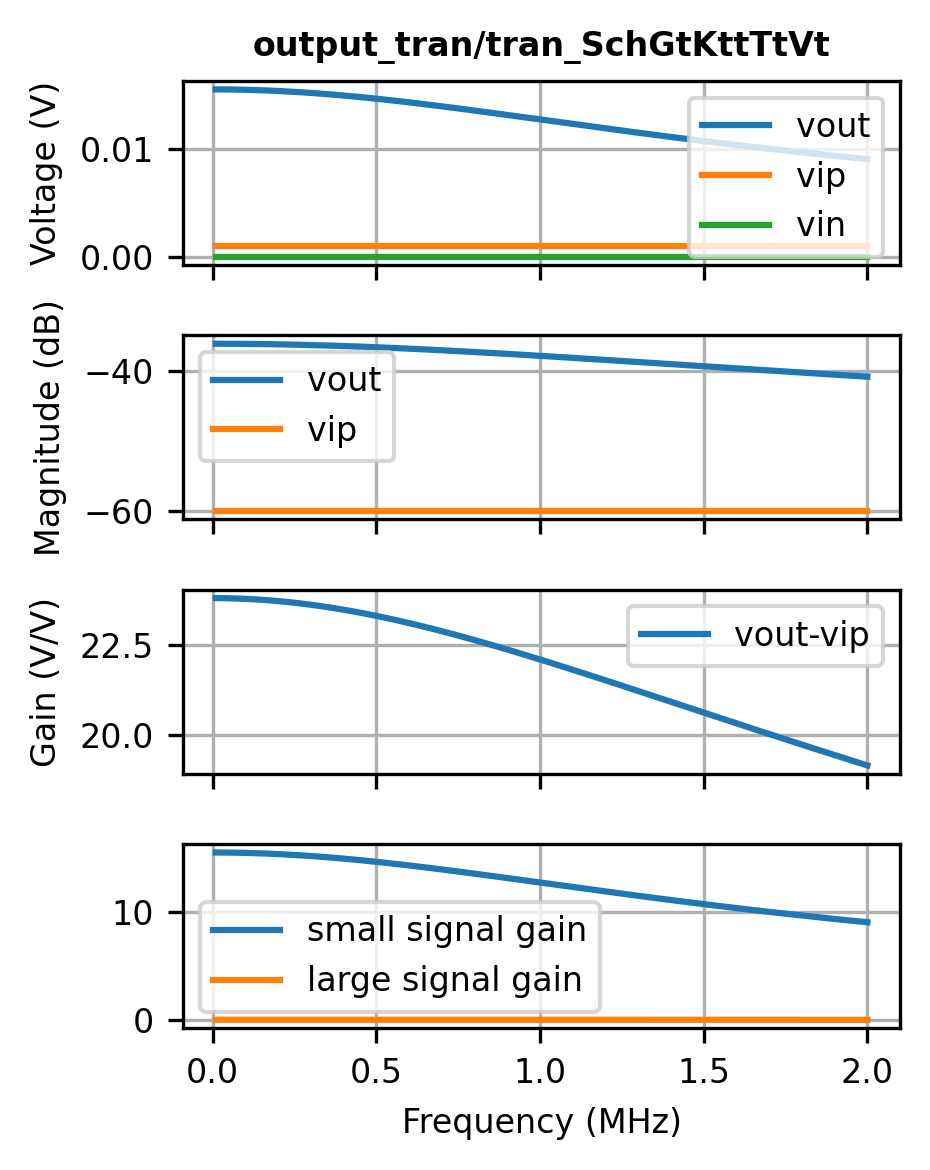
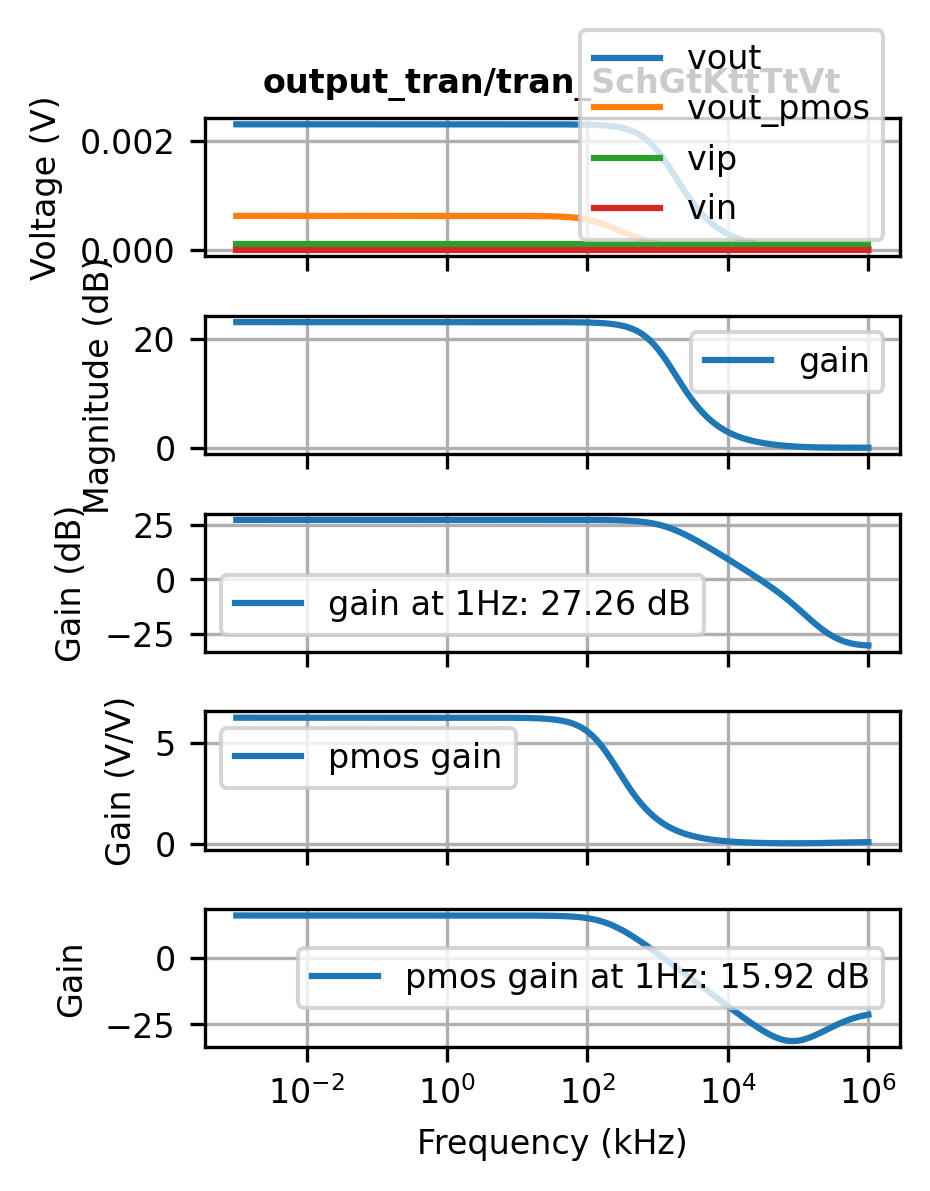
modified gain testbench

Changed region(s): [[0.0312, 0.0, 0.9978, 0.9846], [0.0624, 0.8, 0.0935, 0.8615], [0.9667, 0.4, 0.9978, 0.4308]]

diff --git a/sim/TB_cmp_gain/tran.py b/sim/TB_cmp_gain/tran.py
@@ -2,6 +2,7 @@
 import pandas as pd
 import yaml
 import matplotlib.pyplot as plt
+import numpy as np
 
 fig_width = 3.2
 fig_height = 4
@@ -33,15 +34,21 @@ def main(name):
     yaml.dump(obj,fo)
 
   #
-  # Parse transient simulation data saved in .out file
+  # Parse transient simulation data saved in .out file, calculate and plot gain
   #
 
   outfile = name + ".out"
   df = pd.read_csv(outfile, sep="\s+")
 
-  df["time"] = df["time"] * 1e9 # in ns
-  df["acgain"] = df["v(vout)"] / 1e-3 # AC Gain ≈ V(out) (mV) / 1 mV
-  df["dcgain"] = df["v(vout)"].diff() / df["time"].diff() # Gain ≈ ΔVout / ΔVin
+  df["time"] = df["time"] * 1e6 # in us
+  
+  AVout = max(df["v(vout)"]) - min(df["v(vout)"])
+  AVout_pmos = max(df["v(vout_pmos)"]) - min(df["v(vout_pmos)"])
+  AVip = max(df["v(vip)"]) - min(df["v(vip)"])
+  
+  print(f"AVout: {AVout} V, AVout_pmos: {AVout_pmos} V, AVip: {AVip} V")
+  print(f"tran Gain: {AVout/AVip} V/V, tran Gain_pmos: {AVout_pmos/AVip} V/V")
+  print(f"tran Gain: {20 * np.log10(AVout/AVip)} dB, tran Gain_pmos: {20 * np.log10(AVout_pmos/AVip)} dB")
 
   #
   # Plot transient simulation data saved in .out file
@@ -52,11 +59,9 @@ def main(name):
   axs[0].plot(df["time"], df["v(vin)"], label=f"vin")
   axs[0].plot(df["time"], df["v(vip)"], label=f"vip")
   
-  axs[1].plot(df["time"], df["v(vout)"], label=f"vout, nmos input")
-  axs[1].plot(df["time"], df["v(vout_pmos)"], label=f"vout, pmos input")
-
-  axs[2].plot(df["time"], df["acgain"], label=f"small signal gain, max: {round(max(df['acgain']), 1)}")
-  axs[2].plot(df["time"], df["dcgain"], label=f"large signal gain")
+  axs[1].plot(df["time"], df["v(vout)"], label=f"vout, nmos input\ngain: {AVout/AVip:.2f} V/V ({20 * np.log10(AVout/AVip):.2f} dB)")
+  
+  axs[2].plot(df["time"], df["v(vout_pmos)"], label=f"vout, pmos input\ngain: {AVout_pmos/AVip:.2f} V/V ({20 * np.log10(AVout_pmos/AVip):.2f} dB)")
 
   for ax in axs:
       ax.tick_params(axis="both", labelsize=ticks_fontsize)
@@ -64,13 +69,13 @@ def main(name):
       ax.grid()
   
   axs[0].set_title(f"{name}", fontsize=title_fontsize, fontweight="bold")
-  axs[-1].set_xlabel("Time (ns)", fontsize=label_fontsize)
+  axs[-1].set_xlabel("Time (us)", fontsize=label_fontsize)
 
   axs[0].set_ylabel("Voltage (V)", fontsize=label_fontsize)
   axs[1].set_ylabel("Voltage (V)", fontsize=label_fontsize)
-  axs[2].set_ylabel("Gain (V/V)", fontsize=label_fontsize)
+  axs[2].set_ylabel("Voltage (V)", fontsize=label_fontsize)
 
-  axs[1].set_ylim(bottom=0 - (max(df["v(vout)"]) * 0.05))
+  # axs[1].set_ylim(bottom=0 - (max(df["v(vout)"]) * 0.05))
 
   fig.tight_layout()
   fig.savefig(f"figures/{name.split('/')[-1]}.png", bbox_inches="tight", dpi=300)
@@ -82,40 +87,46 @@ def main(name):
   ac_outfile = name + "_ac.out"
   ac_df = pd.read_csv(ac_outfile, sep="\s+")
 
-  ac_df["frequency"] = ac_df["frequency"] * 1e-6 # in MHz
-  ac_df["acgain"] = ac_df["vm(vout)"] / ac_df["vm(vip)"] # AC Gain ≈ V(out) / 1 mV
-  ac_df["dcgain"] = ac_df["vm(vout)"].diff() / ac_df["frequency"].diff() # Gain ≈ ΔVout / ΔVin
+  ac_df["frequency"] = ac_df["frequency"] * 1e-3 # in kHz
+  ac_df["gain"] = ac_df["vm(vout)"] / ac_df["vm(vip)"] # AC Gain ≈ V(out) / V(in)
+  ac_df["gain_db"] = 20 * np.log10(ac_df["gain"])
+  ac_df["gain_db_alt"] = ac_df["vdb(vout)"] - ac_df["vdb(vip)"]
+  ac_df["gain_pmos"] = ac_df["vm(vout_pmos)"] / ac_df["vm(vip)"] # AC Gain ≈ V(out) / V(in)
+  ac_df["gain_pmos_db"] = 20 * np.log10(ac_df["gain_pmos"])
+  ac_df["gain_pmos_db_alt"] = ac_df["vdb(vout_pmos)"] - ac_df["vdb(vip)"]
 
   #
   # Plot AC simulation data saved in .out file
   #
 
-  ac_fig, ac_axs = plt.subplots(4, 1, figsize=(fig_width, fig_height), sharex=True, dpi=300)
+  ac_fig, ac_axs = plt.subplots(5, 1, figsize=(fig_width, fig_height), sharex=True, dpi=300)
 
   ac_axs[0].plot(ac_df["frequency"], ac_df["vm(vout)"], label=f"vout")
+  ac_axs[0].plot(ac_df["frequency"], ac_df["vm(vout_pmos)"], label=f"vout_pmos")
   ac_axs[0].plot(ac_df["frequency"], ac_df["vm(vip)"], label=f"vip")
   ac_axs[0].plot(ac_df["frequency"], ac_df["vm(vin)"], label=f"vin")
+  
+  ac_axs[1].plot(ac_df["frequency"], ac_df["gain"], label=f"gain")
+  ac_axs[2].plot(ac_df["frequency"], ac_df["gain_db"], label=f"gain at 1Hz: {ac_df['gain_db'].iloc[0]:.2f} dB")
 
-  ac_axs[1].plot(ac_df["frequency"], ac_df["vdb(vout)"], label=f"vout")
-  ac_axs[1].plot(ac_df["frequency"], ac_df["vdb(vip)"], label=f"vip")
-
-  ac_axs[2].plot(ac_df["frequency"], ac_df["vdb(vout)"]-ac_df["vdb(vip)"], label=f"vout-vip")
-
-  ac_axs[3].plot(ac_df["frequency"], ac_df["acgain"], label=f"small signal gain")
-  ac_axs[3].plot(ac_df["frequency"], ac_df["dcgain"], label=f"large signal gain")
+  ac_axs[3].plot(ac_df["frequency"], ac_df["gain_pmos"], label=f"pmos gain")
+  ac_axs[4].plot(ac_df["frequency"], ac_df["gain_pmos_db"], label=f"pmos gain at 1Hz: {ac_df['gain_pmos_db'].iloc[0]:.2f} dB")
 
   for ax in ac_axs:
       ax.tick_params(axis="both", labelsize=ticks_fontsize)
       ax.legend(loc="best", fontsize=legend_fontsize)
       ax.grid()
+      ax.set_xscale('log')
   
   ac_axs[0].set_title(f"{name}", fontsize=title_fontsize, fontweight="bold")
-  ac_axs[-1].set_xlabel("Frequency (MHz)", fontsize=label_fontsize)
+  ac_axs[-1].set_xlabel("Frequency (kHz)", fontsize=label_fontsize)
 
   ac_axs[0].set_ylabel("Voltage (V)", fontsize=label_fontsize)
   ac_axs[1].set_ylabel("Magnitude (dB)", fontsize=label_fontsize)
-  ac_axs[2].set_ylabel("Gain (V/V)", fontsize=label_fontsize)
-
+  ac_axs[2].set_ylabel("Gain (dB)", fontsize=label_fontsize)
+  ac_axs[3].set_ylabel("Gain (V/V)", fontsize=label_fontsize)
+  ac_axs[4].set_ylabel("Gain", fontsize=label_fontsize)
+  
   ac_fig.tight_layout()
   ac_fig.savefig(f"figures/{name.split('/')[-1]}_ac.png", bbox_inches="tight", dpi=300)
 

diff --git a/sim/TB_dig_ctrl/plot_transient_voltages.py b/sim/TB_dig_ctrl/plot_transient_voltages.py
@@ -22,10 +22,10 @@ elif "typical" in args:
                         Vx = "Vl" if voltage == 1.7 else "Vt" if voltage == 1.8 else "Vh" if voltage == 1.9 else "Oops"
                         files.append(f"output_tran/tran_SchGtK{corner}Tt{Vx}_temperature{temperature}celsius_frequency{frequency}mhz_dutycycle{dutycycle}percent_vdd{voltage}volt.out")
 elif "test" in args:
-    for corner in ["ss"]:
+    for corner in ["tt"]:
         for temperature in [27]: # Celsius (degree C)
-            for frequency in [2]: # Mega Hertz (MHz)
-                for dutycycle in [40]: # Percent (%)
+            for frequency in [1]: # Mega Hertz (MHz)
+                for dutycycle in [50]: # Percent (%)
                     for voltage in [1.8]: # Volt (V)
                         Vx = "Vl" if voltage == 1.7 else "Vt" if voltage == 1.8 else "Vh" if voltage == 1.9 else "Oops"
                         files.append(f"output_tran/tran_SchGtK{corner}Tt{Vx}_temperature{temperature}celsius_frequency{frequency}mhz_dutycycle{dutycycle}percent_vdd{voltage}volt.out")
